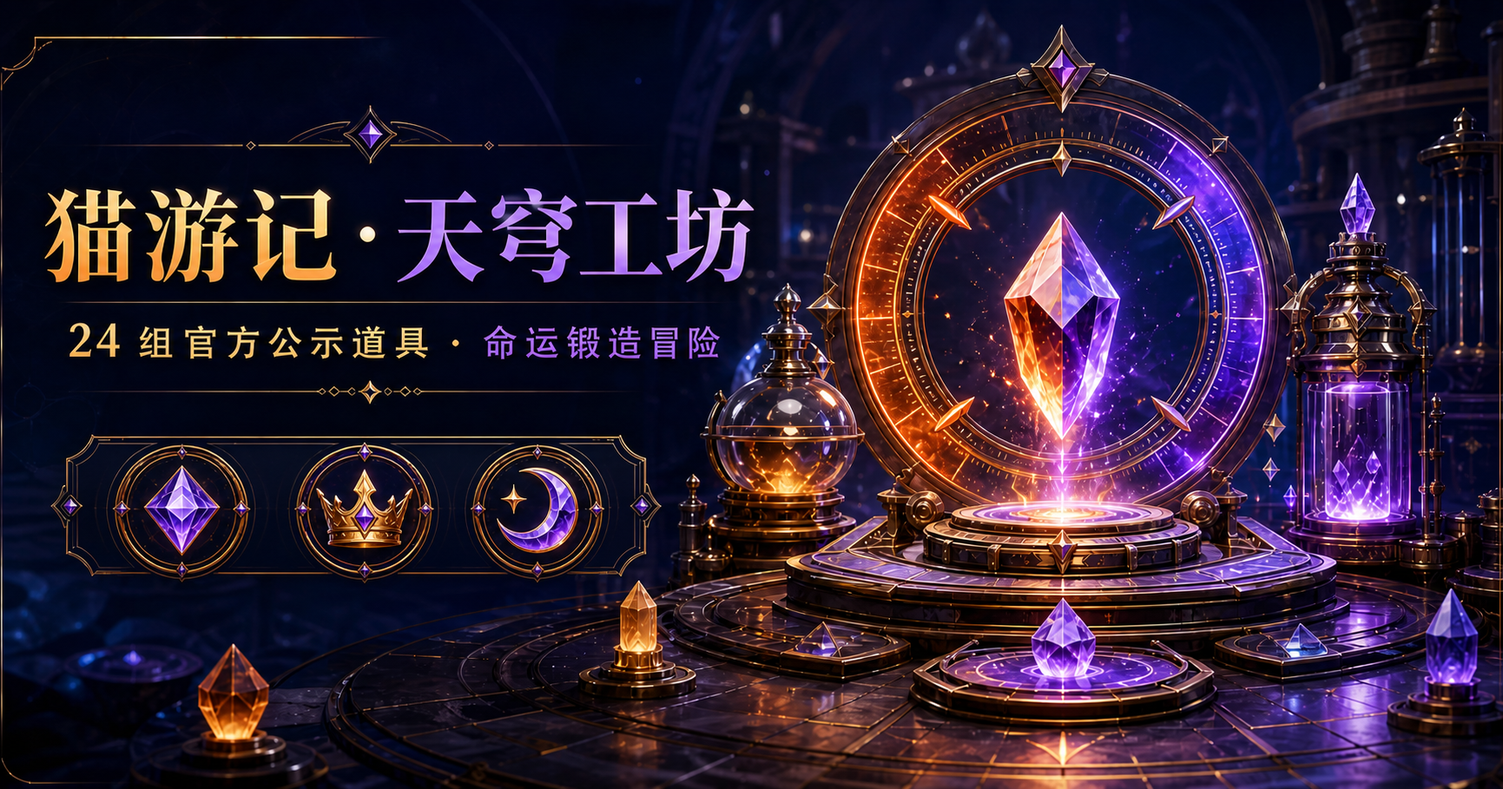
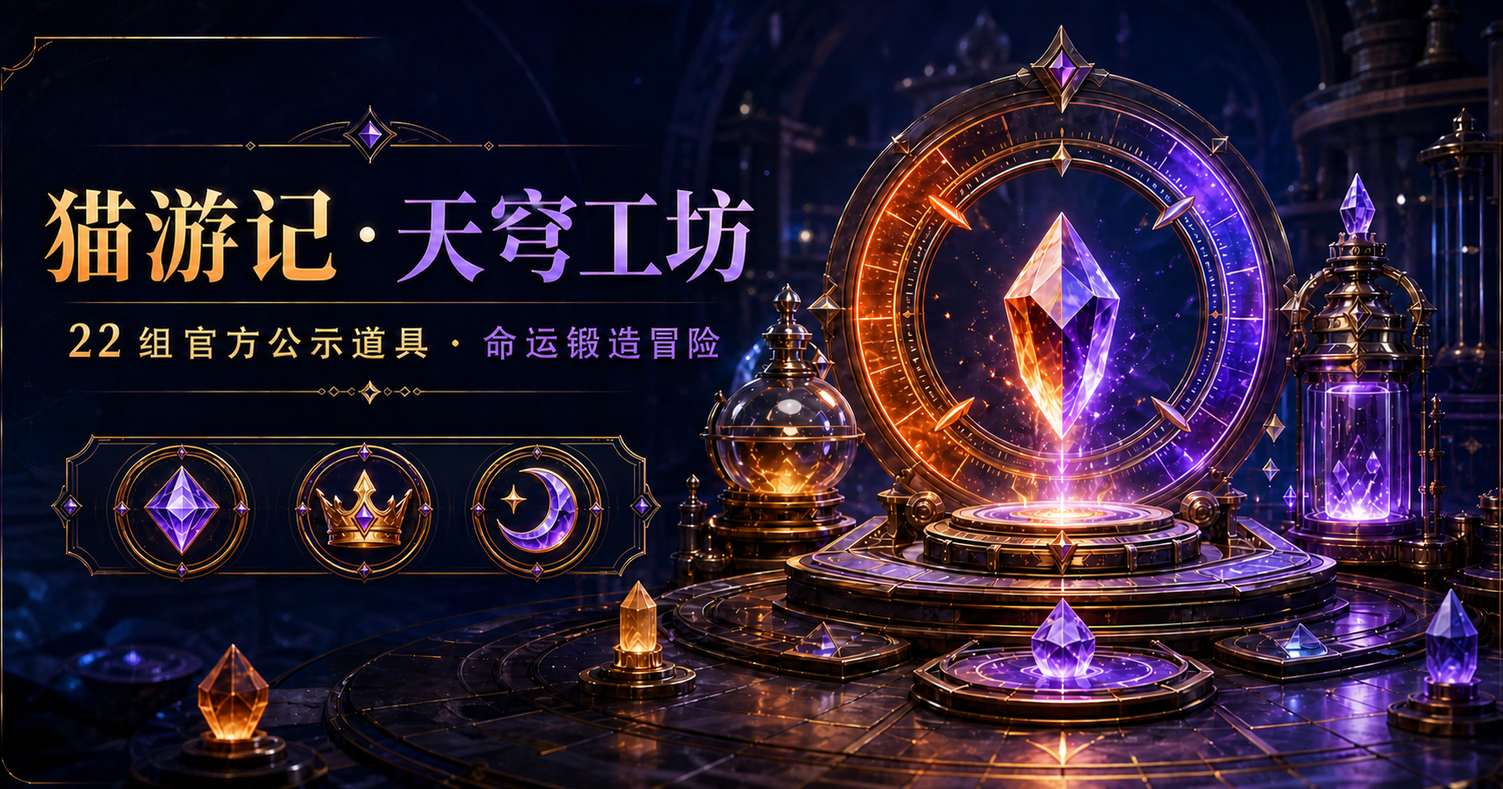
feat: add visible item evolution and trim catalog

diff --git a/app/globals.css b/app/globals.css
@@ -22,15 +22,23 @@ button,input { font:inherit; } button { border:0; }
 .category-list { display:flex; gap:5px; margin:11px 0 12px; padding-bottom:4px; overflow-x:auto; scrollbar-width:none; }.category-list::-webkit-scrollbar { display:none; }.category-list button { flex:none; padding:5px 8px; border:1px solid rgba(210,181,111,.11); border-radius:3px; color:#645f56; background:rgba(255,255,255,.015); font-size:8px; cursor:pointer; }.category-list button.active { border-color:#806a40; color:#e1c88e; background:linear-gradient(#322919,#211c14); }
 .item-list { min-height:0; display:grid; align-content:start; gap:5px; padding:1px 3px 26px 1px; overflow-y:auto; scrollbar-color:rgba(187,151,76,.2) transparent; }.item-card { width:100%; min-height:56px; display:grid; grid-template-columns:39px minmax(0,1fr) auto; align-items:center; gap:9px; padding:7px 8px; border:1px solid transparent; border-radius:4px; color:#78746c; background:transparent; text-align:left; cursor:pointer; transition:.18s ease; }.item-card:hover { color:#b9ad96; background:rgba(255,255,255,.025); }.item-card.active { border-color:color-mix(in srgb,var(--accent) 36%,#5f4f33); color:#f1e5cd; background:linear-gradient(90deg,color-mix(in srgb,var(--accent-soft) 65%,#181a1d),#171a1e); box-shadow:inset 2px 0 var(--accent),0 6px 18px rgba(0,0,0,.18); }
 .item-symbol { width:37px; height:37px; display:grid; place-items:center; border:1px solid color-mix(in srgb,var(--card-accent) 38%,#554a38); border-radius:3px; color:var(--card-accent); background:radial-gradient(circle at 35% 28%,color-mix(in srgb,var(--card-accent) 22%,transparent),var(--card-soft)); box-shadow:inset 0 0 0 2px rgba(0,0,0,.24); font-size:20px; }.item-card>span:nth-child(2) { min-width:0; display:grid; gap:3px; }.item-card b { overflow:hidden; font-family:"Noto Serif SC",serif; font-size:11px; text-overflow:ellipsis; white-space:nowrap; }.item-card small { overflow:hidden; color:#5e5b55; font-size:8px; text-overflow:ellipsis; white-space:nowrap; }.item-card em { min-width:30px; padding:3px 5px; border:1px solid rgba(217,185,112,.12); border-radius:3px; color:#806f50; background:rgba(0,0,0,.18); font-family:ui-monospace,monospace; font-size:8px; font-style:normal; text-align:center; }.item-card.active em { color:color-mix(in srgb,var(--accent) 75%,#f2ddb2); }.no-results { margin:30px 0; color:#5e5a51; font-size:10px; text-align:center; }
+.item-card.tier-2 .item-symbol { box-shadow:inset 0 0 0 2px rgba(0,0,0,.24),0 0 9px color-mix(in srgb,var(--card-accent) 18%,transparent); }.item-card.tier-3 .item-symbol,.item-card.tier-4 .item-symbol,.item-card.tier-5 .item-symbol { border-color:color-mix(in srgb,var(--card-accent) 68%,#d8b76d); box-shadow:inset 0 0 0 2px rgba(0,0,0,.2),0 0 13px color-mix(in srgb,var(--card-accent) 30%,transparent); }.item-card.tier-4 .item-symbol::after,.item-card.tier-5 .item-symbol::after { content:"✦"; position:absolute; margin:-34px 0 0 31px; color:#f2ce79; font-size:7px; text-shadow:0 0 6px #f2ce79; }.item-card.tier-5 .item-symbol { outline:1px solid rgba(238,199,111,.25); outline-offset:2px; }
 
-.forge-stage { min-width:0; min-height:0; overflow-y:auto; scrollbar-color:rgba(187,151,76,.18) transparent; }.item-hero { min-height:90px; display:grid; grid-template-columns:minmax(0,1fr) auto; align-items:center; gap:16px; padding:18px 30px; border-bottom:1px solid rgba(213,187,125,.12); background:linear-gradient(90deg,rgba(19,24,31,.8),rgba(10,14,20,.38)); }.eyebrow { display:flex; align-items:center; gap:6px; margin-bottom:5px; }.eyebrow span,.eyebrow i { padding:3px 6px; border-radius:2px; font-size:8px; font-style:normal; letter-spacing:.05em; }.eyebrow span { color:#dfc993; background:rgba(185,143,65,.11); }.eyebrow i { color:var(--accent); background:color-mix(in srgb,var(--accent) 9%,transparent); }.item-hero h2 { margin:0; color:#f3e8cf; font-family:"Noto Serif SC",serif; font-size:23px; letter-spacing:.08em; }.item-hero p { margin:4px 0 0; color:#777267; font-size:9px; }.independent-badge { display:grid; gap:2px; padding:8px 11px; border-left:2px solid #8d6f3b; color:#796d57; background:rgba(151,112,51,.05); }.independent-badge b { color:#bca477; font-size:9px; }.independent-badge span { font-size:8px; }
+.forge-stage { min-width:0; min-height:0; overflow-y:auto; scrollbar-color:rgba(187,151,76,.18) transparent; }.item-hero { min-height:90px; display:grid; grid-template-columns:minmax(0,1fr) auto; align-items:center; gap:16px; padding:18px 30px; border-bottom:1px solid rgba(213,187,125,.12); background:linear-gradient(90deg,rgba(19,24,31,.8),rgba(10,14,20,.38)); }.eyebrow { display:flex; align-items:center; gap:6px; margin-bottom:5px; }.eyebrow span,.eyebrow i { padding:3px 6px; border-radius:2px; font-size:8px; font-style:normal; letter-spacing:.05em; }.eyebrow span { color:#dfc993; background:rgba(185,143,65,.11); }.eyebrow i { color:var(--accent); background:color-mix(in srgb,var(--accent) 9%,transparent); }.item-hero h2 { margin:0; color:#f3e8cf; font-family:"Noto Serif SC",serif; font-size:23px; letter-spacing:.08em; }.item-hero p { margin:4px 0 0; color:#777267; font-size:9px; }.hero-status { display:flex; align-items:stretch; gap:8px; }.tier-badge { min-width:68px; display:grid; align-content:center; padding:7px 10px; border:1px solid rgba(207,174,97,.16); background:rgba(0,0,0,.18); text-align:center; }.tier-badge small { color:#625b4f; font-size:7px; }.tier-badge b { color:#b09d77; font-family:"Noto Serif SC",serif; font-size:10px; }.tier-badge.tier-3,.tier-badge.tier-4,.tier-badge.tier-5 { border-color:color-mix(in srgb,var(--accent) 35%,#8d6e39); box-shadow:inset 0 0 15px color-mix(in srgb,var(--accent) 8%,transparent); }.tier-badge.tier-3 b,.tier-badge.tier-4 b,.tier-badge.tier-5 b { color:var(--accent); text-shadow:0 0 10px color-mix(in srgb,var(--accent) 44%,transparent); }.independent-badge { display:grid; gap:2px; padding:8px 11px; border-left:2px solid #8d6f3b; color:#796d57; background:rgba(151,112,51,.05); }.independent-badge b { color:#bca477; font-size:9px; }.independent-badge span { font-size:8px; }
 
 .forge-chamber { position:relative; min-height:330px; display:grid; place-items:center; overflow:hidden; border-bottom:1px solid rgba(213,187,125,.1); background:radial-gradient(ellipse at 50% 92%,color-mix(in srgb,var(--accent) 15%,transparent),transparent 48%),linear-gradient(rgba(7,10,15,.52),rgba(7,10,15,.86)); }.forge-chamber::before { content:""; position:absolute; width:520px; height:230px; bottom:-174px; border:1px solid color-mix(in srgb,var(--accent) 24%,#80683c); border-radius:50%; box-shadow:0 0 0 18px rgba(184,148,74,.025),0 0 70px color-mix(in srgb,var(--accent) 18%,transparent); }.forge-chamber::after { content:"✦   ◇   ✦   ⌁   ✦   ◇   ✦"; position:absolute; bottom:31px; color:color-mix(in srgb,var(--accent) 42%,#9b7b3c); font-size:11px; letter-spacing:20px; opacity:.6; }.altar-glow { position:absolute; left:50%; bottom:34px; width:340px; height:90px; border-radius:50%; background:color-mix(in srgb,var(--accent) 17%,transparent); filter:blur(34px); transform:translateX(-50%); transition:.4s ease; }.is-forging .altar-glow { background:color-mix(in srgb,var(--accent) 46%,transparent); transform:translateX(-50%) scale(1.2); }
 .artifact-wrap { position:relative; z-index:3; width:150px; height:150px; display:grid; place-items:center; margin-top:-30px; }.artifact { position:relative; z-index:2; width:88px; height:88px; display:grid; place-items:center; border:1px solid color-mix(in srgb,var(--accent) 65%,#ddbf79); transform:rotate(45deg); background:radial-gradient(circle at 35% 28%,color-mix(in srgb,var(--accent) 34%,#262019),var(--accent-soft) 56%,#10141a); box-shadow:inset 0 0 0 4px rgba(0,0,0,.35),inset 0 0 26px color-mix(in srgb,var(--accent) 18%,transparent),0 0 38px color-mix(in srgb,var(--accent) 22%,transparent); transition:.38s ease; }.artifact span { color:var(--accent); font-size:44px; text-shadow:0 0 18px var(--accent); transform:rotate(-45deg); }.is-forging .artifact { transform:rotate(225deg) scale(1.12); box-shadow:inset 0 0 0 4px rgba(0,0,0,.2),0 0 68px color-mix(in srgb,var(--accent) 62%,transparent); }
+.artifact-wrap.tier-1 .artifact { width:94px; height:94px; }.artifact-wrap.tier-2 .artifact { width:99px; height:99px; border-width:2px; }.artifact-wrap.tier-3 .artifact { width:104px; height:104px; box-shadow:inset 0 0 0 4px rgba(0,0,0,.3),0 0 45px color-mix(in srgb,var(--accent) 40%,transparent); }.artifact-wrap.tier-4 .artifact,.artifact-wrap.tier-5 .artifact { width:110px; height:110px; border-color:color-mix(in srgb,var(--accent) 66%,#ffe5a5); box-shadow:inset 0 0 0 4px rgba(0,0,0,.26),inset 0 0 35px color-mix(in srgb,var(--accent) 28%,transparent),0 0 62px color-mix(in srgb,var(--accent) 50%,transparent); }.artifact-wrap.tier-5 .artifact span { font-size:52px; text-shadow:0 0 12px #fff,0 0 30px var(--accent); }
+.ascension-halo { position:absolute; left:50%; top:50%; border:1px solid color-mix(in srgb,var(--accent) 38%,transparent); border-radius:50%; opacity:0; transform:translate(-50%,-50%); }.artifact-wrap.tier-2 .halo-one,.artifact-wrap.tier-3 .ascension-halo,.artifact-wrap.tier-4 .ascension-halo,.artifact-wrap.tier-5 .ascension-halo { opacity:.65; }.halo-one { width:138px; height:138px; box-shadow:inset 0 0 22px color-mix(in srgb,var(--accent) 12%,transparent); }.halo-two { width:166px; height:166px; border-style:dotted; animation:orbit-centered 12s linear infinite; }.artifact-wrap.tier-4 .halo-two,.artifact-wrap.tier-5 .halo-two { opacity:.85; }
+.artifact-wings { position:absolute; z-index:1; inset:35px -13px; opacity:0; transition:.35s ease; }.artifact-wings i { position:absolute; top:16px; width:54px; height:72px; border:1px solid color-mix(in srgb,var(--accent) 55%,#c7a35d); background:linear-gradient(135deg,color-mix(in srgb,var(--accent) 18%,transparent),transparent); clip-path:polygon(100% 0,78% 100%,42% 72%,0 86%,54% 35%); }.artifact-wings i:first-child { left:0; transform:rotate(-18deg); }.artifact-wings i:last-child { right:0; transform:scaleX(-1) rotate(-18deg); }.artifact-wrap.tier-3 .artifact-wings,.artifact-wrap.tier-4 .artifact-wings,.artifact-wrap.tier-5 .artifact-wings { opacity:.7; }.artifact-wrap.tier-5 .artifact-wings { inset:29px -25px; opacity:1; filter:drop-shadow(0 0 9px var(--accent)); }
+.artifact-crown { position:absolute; z-index:5; left:50%; top:-3px; width:70px; height:34px; display:flex; align-items:flex-end; justify-content:center; opacity:0; transform:translateX(-50%); }.artifact-crown::before,.artifact-crown::after { content:""; width:23px; height:25px; border:1px solid #cfa657; border-bottom:0; transform:skew(-20deg) rotate(-17deg); }.artifact-crown::after { transform:scaleX(-1) skew(-20deg) rotate(-17deg); }.artifact-crown i { color:#e5b95d; font-size:10px; font-style:normal; }.artifact-crown b { position:absolute; bottom:-4px; color:var(--accent); font-size:13px; text-shadow:0 0 10px var(--accent); }.artifact-wrap.tier-4 .artifact-crown,.artifact-wrap.tier-5 .artifact-crown { opacity:.9; }.artifact-wrap.tier-5 .artifact-crown { top:-12px; transform:translateX(-50%) scale(1.14); filter:drop-shadow(0 0 8px #c89440); }
+.rune-shards { position:absolute; inset:-4px; pointer-events:none; }.rune-shards i { position:absolute; left:50%; top:50%; width:5px; height:9px; opacity:0; background:var(--accent); clip-path:polygon(50% 0,100% 70%,50% 100%,0 70%); box-shadow:0 0 9px var(--accent); }.rune-shards i:nth-child(1) { transform:translate(-72px,-20px) rotate(18deg); }.rune-shards i:nth-child(2) { transform:translate(66px,18px) rotate(42deg); }.rune-shards i:nth-child(3) { transform:translate(-51px,-67px) rotate(72deg); }.rune-shards i:nth-child(4) { transform:translate(48px,-62px) rotate(98deg); }.rune-shards i:nth-child(5) { transform:translate(-62px,52px) rotate(122deg); }.rune-shards i:nth-child(6) { transform:translate(55px,58px) rotate(151deg); }.rune-shards i:nth-child(7) { transform:translate(-87px,15px) rotate(191deg); }.rune-shards i:nth-child(8) { transform:translate(82px,-25px) rotate(230deg); }.artifact-wrap.tier-1 .rune-shards i:nth-child(-n+2),.artifact-wrap.tier-2 .rune-shards i:nth-child(-n+4),.artifact-wrap.tier-3 .rune-shards i:nth-child(-n+6),.artifact-wrap.tier-4 .rune-shards i,.artifact-wrap.tier-5 .rune-shards i { opacity:.75; animation:shard-pulse 2.4s ease-in-out infinite alternate; }.artifact-wrap.tier-5 .rune-shards i { width:7px; height:12px; opacity:1; }
 .orbit { position:absolute; inset:5px; border:1px solid color-mix(in srgb,var(--accent) 27%,transparent); border-radius:50%; }.orbit::before,.orbit::after { content:""; position:absolute; width:5px; height:5px; border-radius:50%; background:var(--accent); box-shadow:0 0 10px var(--accent); }.orbit::before { left:18px; top:15px; }.orbit::after { right:11px; bottom:26px; }.orbit-one { animation:orbit 10s linear infinite; }.orbit-two { inset:18px; border-style:dashed; animation:orbit 7s linear infinite reverse; }.artifact-level { position:absolute; z-index:4; right:2px; bottom:13px; min-width:40px; padding:4px 7px; border:1px solid #9d7941; border-radius:10px; color:#fae6b4; background:#241c12; box-shadow:0 3px 10px rgba(0,0,0,.5); font-family:ui-monospace,monospace; font-size:10px; text-align:center; }
-.artifact-name { position:absolute; left:50%; bottom:46px; z-index:3; text-align:center; transform:translateX(-50%); }.artifact-name span { color:#716957; font-size:8px; letter-spacing:.18em; }.artifact-name h3 { margin:4px 0 0; color:#ead8ae; font-family:"Noto Serif SC",serif; font-size:14px; letter-spacing:.12em; }.rank-switcher { position:absolute; left:24px; bottom:22px; z-index:4; display:flex; align-items:center; gap:7px; padding:5px; border:1px solid rgba(214,183,107,.14); border-radius:4px; background:rgba(8,11,16,.72); }.rank-switcher button { width:28px; height:28px; color:#b39a68; background:rgba(185,148,76,.08); cursor:pointer; }.rank-switcher button:disabled { color:#413e38; cursor:default; }.rank-switcher div { min-width:64px; display:grid; text-align:center; }.rank-switcher small { color:#655f54; font-size:7px; }.rank-switcher b { color:#d8c59d; font-family:ui-monospace,monospace; font-size:11px; }
+.artifact-name { position:absolute; left:50%; bottom:38px; z-index:3; text-align:center; transform:translateX(-50%); }.artifact-name span { color:#716957; font-size:8px; letter-spacing:.18em; }.artifact-name h3 { margin:4px 0 0; color:#ead8ae; font-family:"Noto Serif SC",serif; font-size:14px; letter-spacing:.12em; }.evolution-track { display:flex; justify-content:center; gap:4px; margin-top:7px; }.evolution-track i { width:14px; height:2px; background:#332f29; }.evolution-track i.lit { background:var(--accent); box-shadow:0 0 7px var(--accent); }.rank-switcher { position:absolute; left:24px; bottom:22px; z-index:4; display:flex; align-items:center; gap:7px; padding:5px; border:1px solid rgba(214,183,107,.14); border-radius:4px; background:rgba(8,11,16,.72); }.rank-switcher button { width:28px; height:28px; color:#b39a68; background:rgba(185,148,76,.08); cursor:pointer; }.rank-switcher button:disabled { color:#413e38; cursor:default; }.rank-switcher div { min-width:64px; display:grid; text-align:center; }.rank-switcher small { color:#655f54; font-size:7px; }.rank-switcher b { color:#d8c59d; font-family:ui-monospace,monospace; font-size:11px; }
 .star-memory { position:absolute; right:24px; bottom:22px; z-index:4; display:grid; grid-template-columns:auto 62px; align-items:center; gap:4px 8px; padding:7px 9px; border:1px solid rgba(214,183,107,.14); border-radius:4px; background:rgba(8,11,16,.72); }.star-memory span { color:#8c8069; font-size:8px; }.star-memory input { width:62px; padding:4px; border:1px solid #53462f; outline:0; color:#dec996; background:#111419; font-size:9px; text-align:right; }.star-memory small { grid-column:1/-1; color:#5f594e; font-size:7px; }.floating-rune { position:absolute; color:color-mix(in srgb,var(--accent) 28%,transparent); font-size:14px; animation:float 4.8s ease-in-out infinite; }.rune-one { left:16%; top:22%; }.rune-two { right:18%; top:34%; animation-delay:-1.2s; }.rune-three { right:31%; top:16%; animation-delay:-2.4s; }
-@keyframes orbit { to { transform:rotate(360deg); } } @keyframes float { 50% { opacity:.25; transform:translateY(-10px) rotate(15deg); } }
+@keyframes orbit { to { transform:rotate(360deg); } } @keyframes orbit-centered { to { transform:translate(-50%,-50%) rotate(360deg); } } @keyframes float { 50% { opacity:.25; transform:translateY(-10px) rotate(15deg); } } @keyframes shard-pulse { to { filter:brightness(1.8); } }
+.forge-chamber.echo-positive .artifact { animation:ascend-burst .9s ease-out; }.forge-chamber.echo-positive::before { animation:altar-burst .85s ease-out; }.forge-chamber.echo-negative .artifact { animation:forge-shake .55s ease-out; filter:saturate(.45); }.forge-chamber.echo-drawn .artifact { animation:reveal-burst .9s ease-out; }
+@keyframes ascend-burst { 0% { transform:rotate(45deg) scale(.82); filter:brightness(3); } 45% { transform:rotate(405deg) scale(1.28); filter:brightness(2); } 100% { transform:rotate(45deg) scale(1); } } @keyframes altar-burst { 0% { box-shadow:0 0 0 18px rgba(184,148,74,.025),0 0 10px var(--accent); } 55% { box-shadow:0 0 0 90px transparent,0 0 130px var(--accent); } } @keyframes forge-shake { 20% { transform:rotate(42deg) translateX(-7px); } 40% { transform:rotate(48deg) translateX(7px); } 60% { transform:rotate(43deg) translateX(-4px); } } @keyframes reveal-burst { 0% { transform:rotate(45deg) scale(.7); opacity:.2; } 55% { transform:rotate(225deg) scale(1.25); filter:brightness(2.2); } }
 
 .ritual-dock { display:grid; grid-template-columns:1.15fr .85fr; gap:12px; padding:14px 20px 10px; }.offering-panel,.omen-panel { min-height:130px; padding:13px 14px; border:1px solid rgba(213,187,125,.13); border-radius:5px; background:linear-gradient(145deg,rgba(25,29,34,.88),rgba(13,17,22,.9)); }.section-title { display:flex; align-items:flex-start; justify-content:space-between; gap:12px; margin-bottom:12px; }.section-title>div { display:flex; align-items:center; gap:7px; }.section-title>div>span { color:#b9924d; font-size:12px; }.section-title h3 { margin:0; color:#d5c49f; font-family:"Noto Serif SC",serif; font-size:10px; letter-spacing:.08em; }.section-title small { max-width:55%; color:#625e55; font-size:7px; line-height:1.45; text-align:right; }
 .offering-slots { display:grid; grid-template-columns:repeat(3,1fr); gap:8px; }.offering-slots>div { min-width:0; display:grid; justify-items:center; padding:8px 4px 6px; border:1px solid rgba(211,180,105,.1); background:rgba(0,0,0,.18); }.offering-slots i { width:34px; height:34px; display:grid; place-items:center; margin-bottom:5px; border:1px solid color-mix(in srgb,var(--accent) 30%,#5d503a); color:var(--accent); background:var(--accent-soft); font-size:17px; font-style:normal; }.offering-slots span { color:#5f5a50; font-size:7px; }.offering-slots b { max-width:100%; overflow:hidden; margin-top:2px; color:#aa9c82; font-size:8px; text-overflow:ellipsis; white-space:nowrap; }
@@ -49,3 +57,4 @@ button,input { font:inherit; } button { border:0; }
 @media (max-width:860px) { .game-hud { height:66px; grid-template-columns:1fr auto; padding:0 15px; }.world-tabs { display:none; }.wallet>span { display:none; }.forge-layout { height:auto; min-height:calc(100vh - 66px); display:block; }.catalog-panel { padding:13px; border-right:0; border-bottom:1px solid var(--line); }.category-list { margin-bottom:8px; }.item-list { display:flex; padding:0 0 4px; overflow-x:auto; overflow-y:hidden; }.item-card { width:205px; flex:none; }.forge-stage { overflow:visible; }.item-hero { padding:15px 18px; }.forge-chamber { min-height:310px; } }
 @media (max-width:620px) { .player-avatar { width:39px; height:39px; }.player-block h1 { font-size:13px; }.player-block p { display:none; }.wallet a { font-size:8px; }.item-hero { grid-template-columns:1fr; }.independent-badge { display:none; }.ritual-dock { grid-template-columns:1fr; padding:12px; }.forge-actions { grid-template-columns:94px 1fr; padding:6px 12px 14px; }.rank-switcher { left:10px; }.star-memory { right:10px; }.result-banner,.rule-scroll { margin-left:12px; margin-right:12px; }.result-banner { grid-template-columns:38px 1fr; }.result-banner>strong { display:none; }.offering-slots b { font-size:7px; } }
 @media (prefers-reduced-motion:reduce) { *,*::before,*::after { animation-duration:.01ms!important; transition-duration:.01ms!important; } }
+.item-symbol { position:relative; }

diff --git a/app/page.tsx b/app/page.tsx
@@ -178,11 +178,6 @@ const items: ProbabilityItem[] = [
     rows: successOnlyRows(0, [100, 90, 80, 60, 40, 20, 5, 3, 2, 1]),
   },
   {
-    id: 'refining-stone', name: '洗练石', category: '宝石与圣器', mode: 'upgrade', symbol: '⬡', accent: '#58d9d1', accentSoft: '#133c40',
-    description: '从 1 级一路强化至 20 级。', sourceNote: '失败后果未在公示表中说明；Mock 失败时不改等级。', minLevel: 1, maxLevel: 20,
-    rows: successOnlyRows(1, [100, 95, 90, 85, 80, 75, 70, 65, 60, 55, 50, 45, 40, 35, 30, 25, 20, 15, 10]),
-  },
-  {
     id: 'element-compass', name: '元素罗盘', category: '特殊强化', mode: 'upgrade', symbol: '✣', accent: '#47d7ac', accentSoft: '#123d38',
     description: '唯一包含 +2 跳级结果的四分支强化。', sourceNote: '升级 +1、跳级 +2、保持不变与降级 -1。', minLevel: 0, maxLevel: 10, rows: compassRows(),
   },
@@ -190,11 +185,6 @@ const items: ProbabilityItem[] = [
     id: 'moon-myth', name: '星月神话', aliases: ['星云沙'], category: '宝石与圣器', mode: 'upgrade', symbol: '☾', accent: '#a78bfa', accentSoft: '#2a2148',
     description: '与星云沙共用成功、不变、降级概率。', sourceNote: '两个名称在公示中列为同组。', minLevel: 0, maxLevel: 10,
     rows: standardRows([[100, 0, 0], [90, 10, 0], [80, 10, 10], [60, 30, 10], [40, 40, 20], [30, 40, 30], [20, 45, 35], [15, 45, 40], [5, 50, 45], [2, 50, 48]]),
-  },
-  {
-    id: 'moon-cloud', name: '星月彩云', category: '概率重绘', mode: 'draw', symbol: '☁', accent: '#b492ff', accentSoft: '#2a2148',
-    description: '触发后随机点亮 1、3 或 5 个星位。', sourceNote: '官方公布触发星位数量分布。',
-    drawOptions: [{ label: '1 个星位', probability: 85 }, { label: '3 个星位', probability: 12 }, { label: '5 个星位', probability: 3 }],
   },
   {
     id: 'divine-ascension', name: '神装升阶', category: '装备升阶', mode: 'upgrade', symbol: '⇧', accent: '#ffb657', accentSoft: '#3c2918',
@@ -285,6 +275,15 @@ function outcomeStyle(kind: OutcomeKind) {
   if (kind === 'draw') return 'drawn';
   return 'neutral';
 }
+
+function visualTier(entry: ProbabilityItem, current: number) {
+  if (entry.mode === 'draw') return 0;
+  const min = entry.minLevel ?? 0;
+  const span = Math.max(1, (entry.maxLevel ?? min + 1) - min);
+  return Math.min(5, Math.floor(((current - min) / span) * 5));
+}
+
+const tierNames = ['原初', '微光', '精炼', '星辉', '神话', '天穹'];
 
 export default function Home() {
   const initialLevels = useMemo(() => Object.fromEntries(items.filter((item) => item.mode !== 'draw').map((item) => [item.id, item.minLevel ?? 0])), []);
@@ -416,6 +415,8 @@ export default function Home() {
   const canForge = item.mode === 'draw' || outcomes.length > 0;
   const actionLabel = item.mode === 'draw' ? '唤醒图腾' : item.mode === 'check' ? '进行祈愿' : item.mode === 'adaptive' ? '点亮星辰' : '开始强化';
   const levelName = item.mode === 'adaptive' ? `${level} 星` : item.mode === 'check' ? `${level} 档` : `+${level}`;
+  const tier = visualTier(item, level);
+  const tierProgress = item.mode === 'draw' ? 0 : Math.round(((level - (item.minLevel ?? 0)) / Math.max(1, (item.maxLevel ?? 1) - (item.minLevel ?? 0))) * 100);
 
   function shiftLevel(delta: number) {
     selectLevel(Math.min(maxSelectable, Math.max(item.minLevel ?? 0, level + delta)));
@@ -434,14 +435,14 @@ export default function Home() {
 
       <section className="forge-layout">
         <aside className="catalog-panel">
-          <div className="catalog-heading"><div><span>旅团背包</span><b>{items.length}/24</b></div><small>选择要锻造的道具</small></div>
+          <div className="catalog-heading"><div><span>旅团背包</span><b>{items.length}/22</b></div><small>选择要锻造的道具</small></div>
           <label className="search-box"><span>⌕</span><input value={query} onChange={(event) => setQuery(event.target.value)} placeholder="搜索道具或别名" /></label>
           <div className="category-list" aria-label="道具分类">
             {categories.map((entry) => <button key={entry} type="button" className={category === entry ? 'active' : ''} onClick={() => setCategory(entry)}>{entry}</button>)}
           </div>
           <div className="item-list">
             {visibleItems.map((entry) => (
-              <button key={entry.id} type="button" className={`item-card ${entry.id === item.id ? 'active' : ''}`} onClick={() => chooseItem(entry)}>
+              <button key={entry.id} type="button" className={`item-card tier-${visualTier(entry, levels[entry.id] ?? entry.minLevel ?? 0)} ${entry.id === item.id ? 'active' : ''}`} onClick={() => chooseItem(entry)}>
                 <span className="item-symbol" style={{ '--card-accent': entry.accent, '--card-soft': entry.accentSoft } as CSSProperties}>{entry.symbol}</span>
                 <span><b>{entry.name}</b><small>{entry.aliases?.length ? entry.aliases.join(' / ') : entry.category}</small></span>
                 <em>{entry.mode === 'draw' ? '秘宝' : entry.mode === 'adaptive' ? `${levels[entry.id] ?? 0}★` : entry.mode === 'check' ? `${levels[entry.id] ?? entry.minLevel}档` : `+${levels[entry.id] ?? entry.minLevel ?? 0}`}</em>
@@ -454,18 +455,22 @@ export default function Home() {
         <section className="forge-stage">
           <header className="item-hero">
             <div><div className="eyebrow"><span>{item.category}</span><i>{item.mode === 'draw' ? '远古秘宝' : item.mode === 'adaptive' ? '星辰遗物' : item.mode === 'check' ? '祝福仪式' : '可成长装备'}</i></div><h2>{item.name}</h2><p>{item.aliases?.length ? `古称：${item.aliases.join('、')} · ` : ''}{item.description}</p></div>
-            <div className="independent-badge"><b>命运独立</b><span>每次锻造重新判定</span></div>
+            <div className="hero-status"><div className={`tier-badge tier-${tier}`}><small>道具境界</small><b>{item.mode === 'draw' ? '秘宝' : tierNames[tier]}</b></div><div className="independent-badge"><b>命运独立</b><span>每次锻造重新判定</span></div></div>
           </header>
 
-          <div className="forge-chamber">
+          <div className={`forge-chamber tier-${tier} ${lastAttempt ? `echo-${outcomeStyle(lastAttempt.kind)}` : ''}`} key={`${item.id}-${lastAttempt?.id ?? 'idle'}`} style={{ '--tier-progress': `${tierProgress}%` } as CSSProperties}>
             <div className="floating-rune rune-one">✦</div><div className="floating-rune rune-two">⌁</div><div className="floating-rune rune-three">◇</div>
             <div className="altar-glow" />
-            <div className="artifact-wrap">
+            <div className={`artifact-wrap tier-${tier}`}>
+              <div className="ascension-halo halo-one" /><div className="ascension-halo halo-two" />
               <div className="orbit orbit-one" /><div className="orbit orbit-two" />
+              <div className="artifact-wings"><i /><i /></div>
+              <div className="artifact-crown"><i>◆</i><b>✦</b></div>
               <div className="artifact"><span>{item.symbol}</span></div>
+              <div className="rune-shards">{Array.from({ length: 8 }, (_, index) => <i key={index} />)}</div>
               {item.mode !== 'draw' && <b className="artifact-level">{levelName}</b>}
             </div>
-            <div className="artifact-name"><span>{item.mode === 'draw' ? '等待唤醒' : canForge ? '等待强化' : '已臻至最高境界'}</span><h3>{item.name}</h3></div>
+            <div className="artifact-name"><span>{item.mode === 'draw' ? '等待唤醒' : canForge ? `${tierNames[tier]}境 · 等待强化` : '已臻至最高境界'}</span><h3>{item.name}</h3><div className="evolution-track" aria-label={`成长进度 ${tierProgress}%`}>{Array.from({ length: 6 }, (_, index) => <i key={index} className={index <= tier ? 'lit' : ''} />)}</div></div>
             {item.mode !== 'draw' && (
               <div className="rank-switcher" aria-label="试炼档位">
                 <button type="button" onClick={() => shiftLevel(-1)} disabled={level <= (item.minLevel ?? 0)}>−</button>

diff --git a/app/layout.tsx b/app/layout.tsx
@@ -14,16 +14,16 @@ const geistMono = Geist_Mono({
 
 export const metadata: Metadata = {
   title: '猫游记 · 天穹工坊',
-  description: '覆盖官方《概率公示Ⅱ》24 组道具的强化、升阶、祈愿与重绘冒险。',
+  description: '覆盖官方《概率公示Ⅱ》22 组道具的强化、升阶、祈愿与重绘冒险。',
   openGraph: {
     title: '猫游记 · 天穹工坊',
-    description: '24 组官方公示道具 · 独立概率锻造冒险',
+    description: '22 组官方公示道具 · 独立概率锻造冒险',
     images: [{ url: '/og.png', alt: '猫游记天穹工坊' }],
   },
   twitter: {
     card: 'summary_large_image',
     title: '猫游记 · 天穹工坊',
-    description: '24 组官方公示道具 · 独立概率锻造冒险',
+    description: '22 组官方公示道具 · 独立概率锻造冒险',
     images: ['/og.png'],
   },
 };
